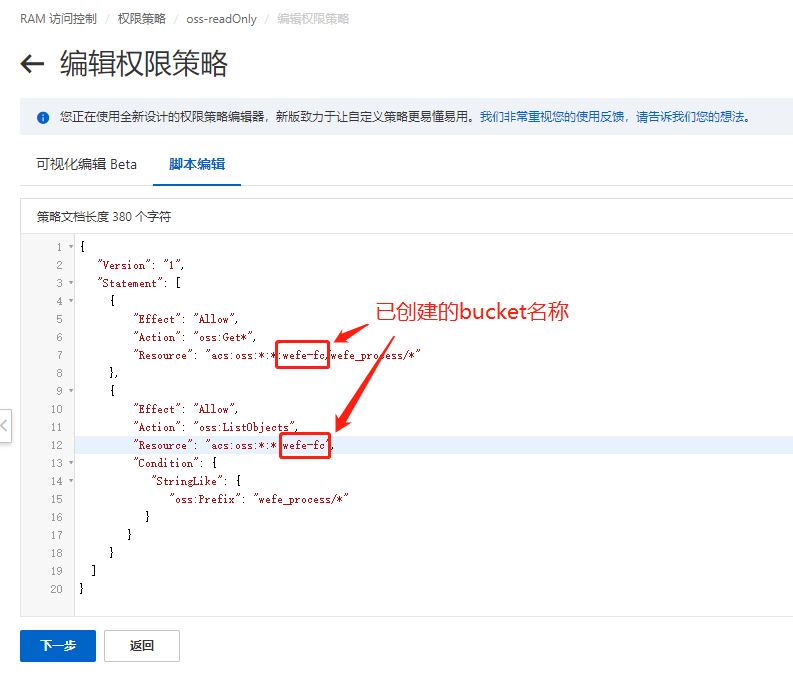
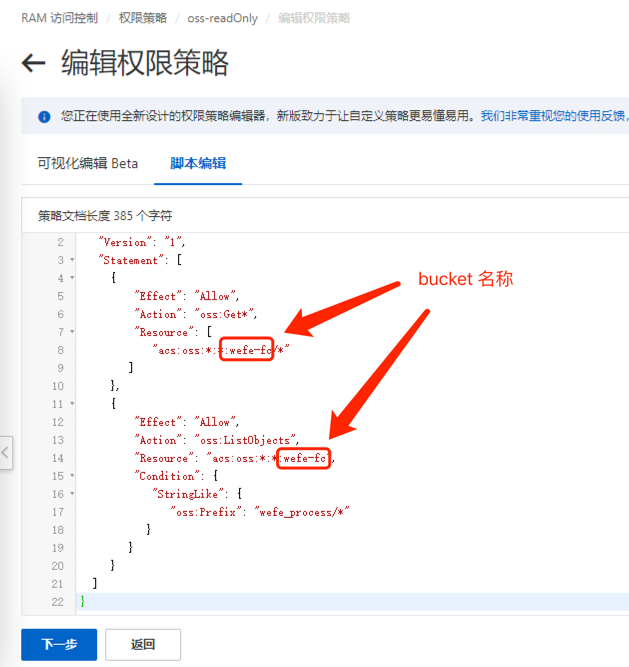
修改部署文档，部署脚本

diff --git a/docs/install/install_fc.md b/docs/install/install_fc.md
@@ -186,7 +186,9 @@ wefe-fc-policy
     {
       "Effect": "Allow",
       "Action": "oss:Get*",
-      "Resource": "acs:oss:*:*:{bucket_name}/wefe_process/*"
+      "Resource": [
+        "acs:oss:*:*:{bucket_name}/*"
+      ]
     },
     {
       "Effect": "Allow",
